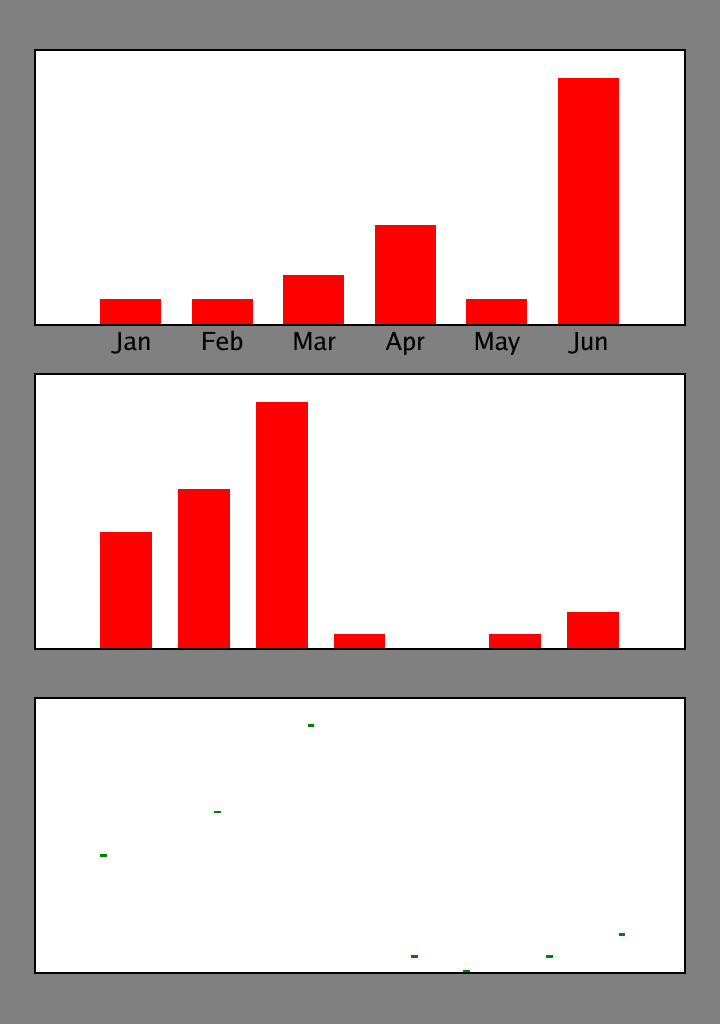
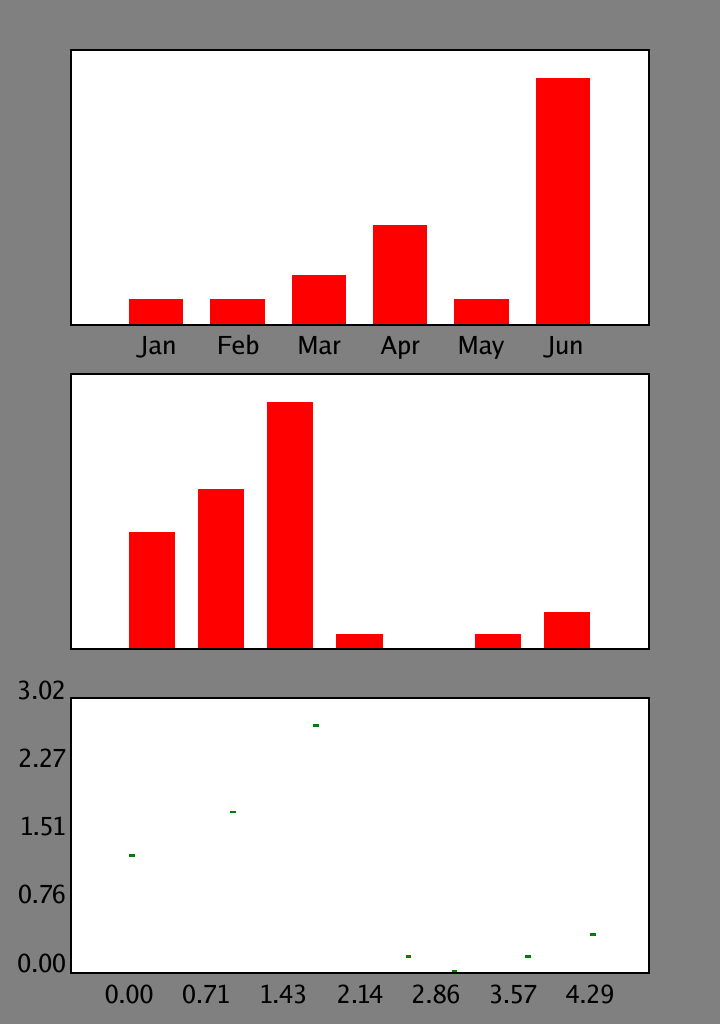
Adjusting label creation

diff --git a/canvas/axes.go b/canvas/axes.go
@@ -47,6 +47,20 @@ func NewAxes(parent *Figure, dims ...float64) (*Axes, error) {
 	return &ax, nil
 }
 
+func minSlice(s []float64) float64 {
+	if len(s) <= 0 {
+		log.Panic("max(s) on an empty slice")
+	}
+	var m = s[0]
+	for _, v := range s {
+		if v < m {
+			m = v
+		}
+	}
+
+	return m
+}
+
 func maxSlice(s []float64) float64 {
 	if len(s) <= 0 {
 		log.Panic("max(s) on an empty slice")
@@ -126,6 +140,8 @@ func (ax *Axes) ScatterPlot(X, Y []float64) error {
 
 	maxY := maxSlice(Y) / 0.9
 	maxX := maxSlice(X)
+	labels := []string{}
+	labelsY := []string{}
 
 	var padding = 0.1
 
@@ -134,15 +150,29 @@ func (ax *Axes) ScatterPlot(X, Y []float64) error {
 		if err != nil {
 			return err
 		}
-
-		// if X != nil {
-		// 	_, err := NewLabel(ax, point.Origin[0], -0.1, 0.08, fmt.Sprint(X[i]))
-		// 	if err != nil {
-		// 		log.Fatal(err)
-		// 	}
-
-		// }
 	}
+
+	axX, _ := NewAxis(ax, 0)
+	if X != nil {
+		min := minSlice(X)
+		step := (maxX - min) / float64(len(X))
+		for i := range X {
+			labels = append(labels, fmt.Sprintf("%.2f", min+step*float64(i)))
+		}
+	}
+
+	axX.Labels(labels, padding)
+
+	axY, _ := NewAxis(ax, 1)
+	if Y != nil {
+		min := minSlice(Y)
+		step := (maxY - min) / float64(5)
+		for i := 0; i < 5; i++ {
+			labelsY = append(labelsY, fmt.Sprintf("%.2f", min+step*float64(i)))
+		}
+	}
+
+	axY.Labels(labelsY, 0)
 
 	return nil
 }
@@ -208,8 +238,8 @@ func NewAxis(parent *Axes, which byte) (*Axis, error) {
 		o = [2]float64{0, -0.1}
 		s = [2]float64{1, 0.2}
 	case 1:
-		o = [2]float64{-0.1, 0}
-		s = [2]float64{0.2, 1}
+		o = [2]float64{-0.05, 0}
+		s = [2]float64{0.1, 1}
 	}
 
 	ax.W = 2
@@ -238,11 +268,13 @@ func (a *Axis) Labels(X []string, padding float64) {
 	switch a.Type {
 	case 0:
 		for i := range X {
-			NewLabel(a, padding+spacing*float64(i), 0, 0.5, X[i])
+			l, _ := NewLabel(a, padding+spacing*float64(i), a.Size[0]*(0.4), 0.5, X[i])
+			l.YAlign = TopAlign
 		}
 	case 1:
 		for i := range X {
-			NewLabel(a, 0, padding+spacing*float64(i), 0.5, X[i])
+			l, _ := NewLabel(a, a.Size[1]*(0.4), padding+spacing*float64(i), 0.1, X[i])
+			l.XAlign = RightAlign
 		}
 	}
 }

diff --git a/canvas/label.go b/canvas/label.go
@@ -23,6 +23,8 @@ func (l *Label) Render(dst draw.Image) {
 	bounds := l.Bounds()
 	height := bounds.Max.Y - bounds.Min.Y
 	t, _ := NewTyper(height * 72 / 300) // TODO: Change for a faster typer initialization
+	t.XAlign = l.XAlign
+	t.YAlign = l.YAlign
 	location := bounds.Min
 	t.Render(dst, location.X, location.Y, l.Text)
 }
@@ -47,16 +49,36 @@ func NewLabel(parent *Axis, x, y, h float64, text string) (*Label, error) {
 var DefaultTyper = NewDefaultTyper()
 
 type Typer struct {
-	Drawer *font.Drawer
-	Height fixed.Int26_6
+	Drawer         *font.Drawer
+	Height         fixed.Int26_6
+	XAlign, YAlign byte
 }
 
 func (t *Typer) Render(dst draw.Image, X, Y int, text string) {
 	d := t.Drawer
 	d.Dst = dst
+	var dX, dY fixed.Int26_6
+
+	switch t.XAlign {
+	case CenterAlign:
+		dX = fixed.I(X) - d.MeasureString(text)/2
+	case RightAlign:
+		dX = fixed.I(X) - d.MeasureString(text)
+	case LeftAlign:
+		dX = fixed.I(X)
+	}
+	switch t.YAlign {
+	case CenterAlign:
+		dY = fixed.I(Y) + t.Height/2
+	case TopAlign:
+		dY = fixed.I(Y) + t.Height
+	case BottomAlign:
+		dY = fixed.I(Y)
+	}
+
 	d.Dot = fixed.Point26_6{
-		X: fixed.I(X) - d.MeasureString(text)/2,
-		Y: fixed.I(Y) + t.Height/2,
+		X: dX,
+		Y: dY,
 	}
 	d.DrawString(text)
 }

diff --git a/canvas/figure.go b/canvas/figure.go
@@ -26,17 +26,19 @@ func (f *Figure) SubAxes(rows, cols int) ([]*Axes, error) {
 	var axes []*Axes
 
 	n := float64(cols)
-	var padding float64 = 0.05
-	spaceW := padding
-	axW := (1 - 2*padding - (n-1)*spaceW) / n
+	var paddingX float64 = 0.1
+	var paddingY float64 = 0.05
+
+	spaceW := paddingX
+	axW := (1 - 2*paddingX - (n-1)*spaceW) / n
 
 	n = float64(rows)
-	spaceH := padding
-	axH := (1 - 2*padding - (n-1)*spaceH) / n
+	spaceH := paddingY
+	axH := (1 - 2*paddingY - (n-1)*spaceH) / n
 
 	for j := rows - 1; j >= 0; j-- {
 		for i := 0; i < cols; i++ {
-			ax, err := NewAxes(f, padding+float64(i)*(axW+spaceW), padding+float64(j)*(axH+spaceH), axW, axH)
+			ax, err := NewAxes(f, paddingX+float64(i)*(axW+spaceW), paddingY+float64(j)*(axH+spaceH), axW, axH)
 			if err != nil {
 				return nil, err
 			}

diff --git a/canvas/container.go b/canvas/container.go
@@ -81,9 +81,9 @@ func (p *Primitive) Vector() mat.Matrix {
 	switch p.YAlign {
 	case 1: // Center align
 		v = append(v, p.Origin[1]-p.Size[1]/2, p.Origin[1]+p.Size[1]/2)
-	case 2: // Right align
+	case 2: // Top align
 		v = append(v, p.Origin[1]-p.Size[1], p.Origin[1])
-	default: // Left align
+	default: // Bottom align
 		v = append(v, p.Origin[1], p.Origin[1]+p.Size[1])
 	}
 	v = append(v, 1, 1)
